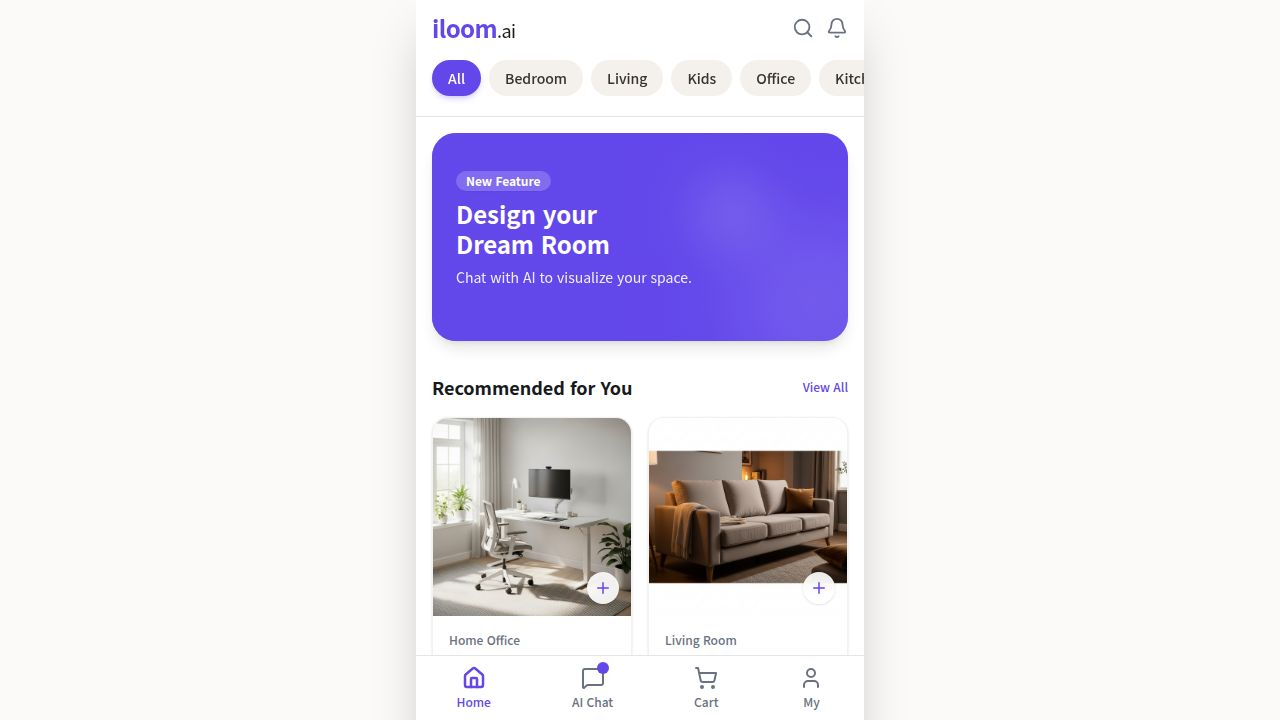
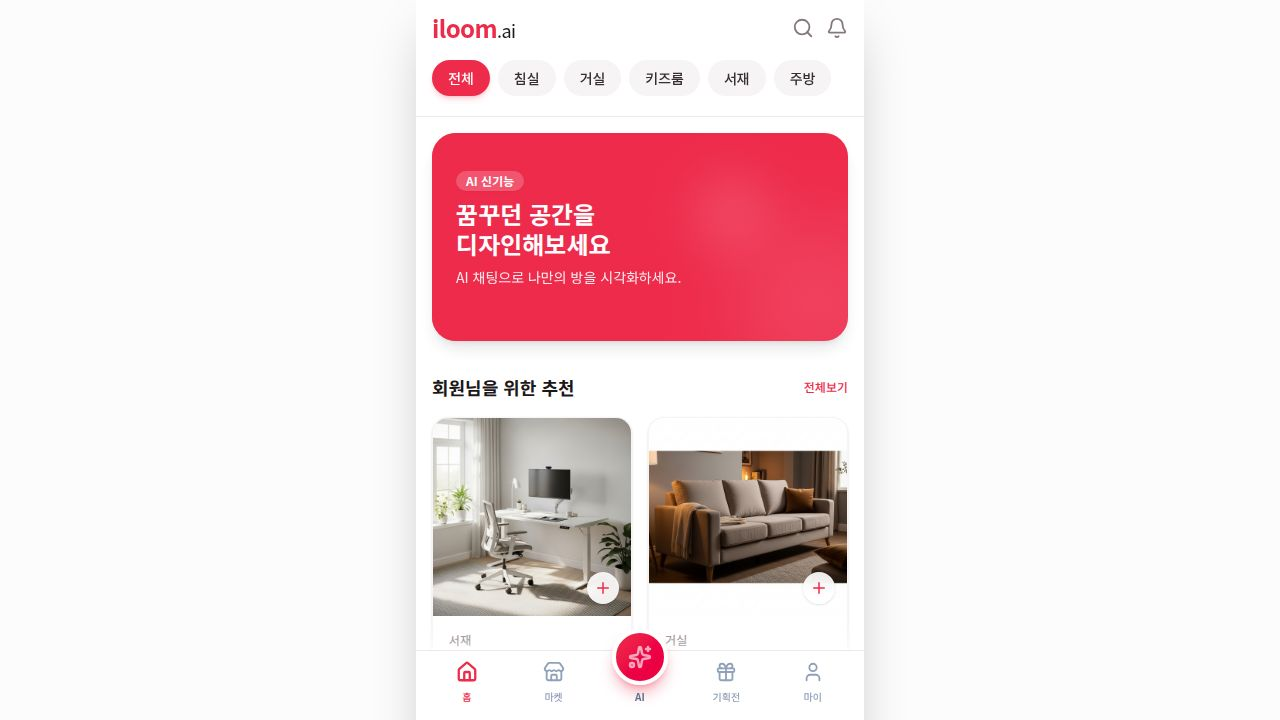
Adjust AI button position and ensure it stays visible
Reposition the AI chat button to be slightly lower and ensure it has a higher z-index to remain above other content.

Replit-Commit-Author: Agent
Replit-Commit-Session-Id: 17ecb11c-ba09-42da-b0ff-2c06157583db
Replit-Commit-Checkpoint-Type: full_checkpoint
Replit-Commit-Event-Id: 3a2dce0a-3e41-41ac-912a-00e1500cb209
Replit-Commit-Screenshot-Url: https://storage.googleapis.com/screenshot-production-us-central1/64474882-dd9c-43dd-9227-ce4bdb1ed1da/17ecb11c-ba09-42da-b0ff-2c06157583db/RyF8LGa
Replit-Helium-Checkpoint-Created: true

diff --git a/client/src/components/MobileLayout.tsx b/client/src/components/MobileLayout.tsx
@@ -36,7 +36,7 @@ export function MobileLayout({ children }: { children: React.ReactNode }) {
 
           {/* 3D AI Button - Floats above */}
           <Link href="/chat">
-            <a className="relative -top-5 flex flex-col items-center group">
+            <a className="relative -top-2 z-50 flex flex-col items-center group">
               <div className={cn(
                 "w-14 h-14 rounded-full bg-gradient-to-br from-primary to-rose-600 flex items-center justify-center text-white shadow-lg shadow-primary/40 transition-transform duration-300 group-active:scale-95 border-4 border-white",
                 location === "/chat" ? "ring-2 ring-primary/20 scale-110" : ""
